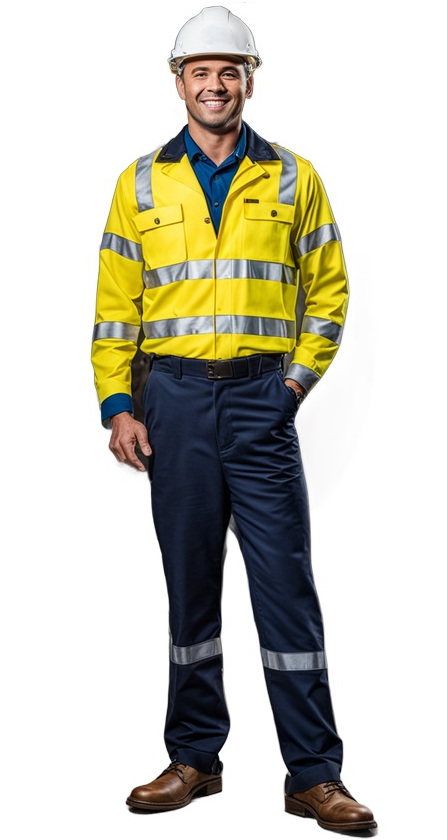
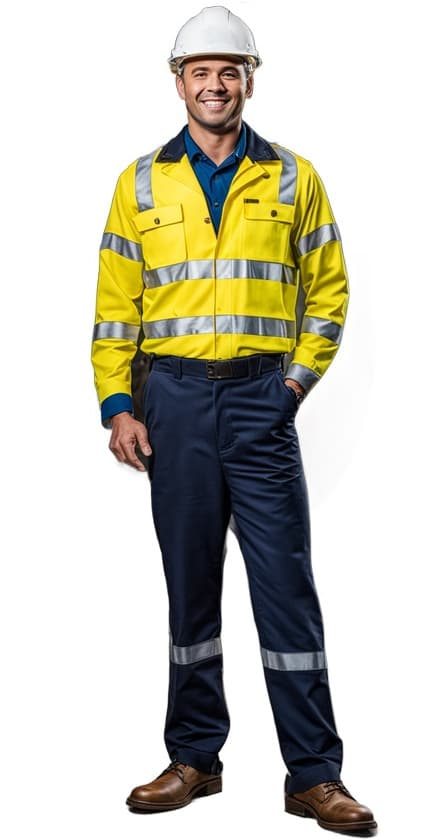
optimizing images

diff --git a/resources/views/services.blade.php b/resources/views/services.blade.php
@@ -5,62 +5,74 @@
     $services = [
         [
             'directory' => asset('images/services/grupo-electrogeno.jpg'),
+            'icon' => '',
             'title' => 'Alquiler y venta de grupos electrogenos',
             'content' => 'Generadores diesel, modernos y ecológicos: son apropiados para aplicaciones de potencia principal, potencia contínua o potencia de emergencia/standby.
 '
         ],
         [
             'directory' => asset('images/services/torre-luminaria.jpg'),
+            'icon' => '',
             'title' => 'Alquiler y venta de torres luminarias.',
             'content' => 'Para brindar una iluminación potente y segura en entornos mineros. Contamos con equipos modernos, obtén la iluminación adecuada para maximizar la eficiencia y la seguridad en tu operación minera.'
         ],
         [
             'directory' => asset ('images/services/camiones.jpg'),
+            'icon' => '',
             'title' => 'Alquiler de camionetas, autos y camiones',
             'content' => 'ofrecemos una amplia flota de vehículos disponibles para alquiler, adaptados a tus requerimientos de transporte en la industria minera.Ya sea que necesites vehículos robustos para terrenos difíciles o autos eficientes para desplazamientos urbanos'
         ],
         [
             'directory' => asset ('images/services/movimientos-de-suelo.jpg'),
+            'icon' => '',
             'title' => 'Servicios de movimientos de suelo y proyectos de ingenieria',
             'content' => 'Nuestro equipo de ingenieros experimentados se encarga de planificar y ejecutar proyectos de movimiento de tierra de manera eficiente y segura. Ya sea que necesites nivelación de terrenos, excavaciones o rellenos, contamos con la maquinaria y el conocimiento necesario'
         ],
         [
             'directory' => asset ('images/services/maquinas-viales.jpg'),
+            'icon' => '',
             'title' => 'Venta de maquinaria vial y repuestos.',
             'content' => 'Ofrecemos una amplia gama de equipos de alta calidad, incluyendo maquinaria pesada, excavadoras, cargadoras, camiones volquete y mucho más.'
         ],
         [
             'directory' => asset ('images/services/imprenta.jpg'),
+            'icon' => '',
             'title' => 'Imprenta y carteleria',
             'content' => 'Contamos con tecnología de vanguardia y un equipo de diseñadores y expertos en impresión que se asegurarán de que tus materiales impresos y carteles cumplan con los más altos estándares de calidad.'
         ],
         [
             'directory' => asset ('images/services/limpieza.jpg'),
+            'icon' => '',
             'title' => 'Insumos de limpieza',
             'content' => 'Insumos de limpieza diseñados específicamente para la industria minera. Entendemos la importancia de mantener un entorno limpio y seguro en tus instalaciones mineras,'
         ],
         [
             'directory' => asset ('images/services/bolsas.jpg'),
+            'icon' => '',
             'title' => 'Bolsas y Big Bag',
             'content' => 'Bolsas ideales para el empaque de productos a granel, como minerales, fertilizantes, arena y otros materiales utilizados en la industria minera. También ofrecemos Big Bags, que son contenedores de gran capacidad diseñados para facilitar la carga, descarga y transporte de materiales voluminosos.'
         ],
         [
             'directory' => asset ('images/services/ferreteria.jpg'),
+            'icon' => '',
             'title' => 'Materiales de ferreteria y construcción',
             'content' => 'herramientas manuales y eléctricas, equipos de seguridad, accesorios de sujeción, productos de soldadura y una ámplia variedad de materiales para la construcción.'
         ],
         [
             'directory' => asset ('images/services/epp.jpg'),
+            'icon' => '',
             'title' => 'Equipamiento y productos de seguridad',
             'content' => 'Nuestro catálogo incluye equipos de protección personal (EPP) como cascos, guantes, gafas de seguridad, calzado de seguridad y ropa de trabajo resistente. Estos productos están diseñados para cumplir con los estándares de seguridad más rigurosos y brindar la máxima protección a los trabajadores en el entorno minero.'
         ],
         [
             'directory' => asset ('images/services/bentonita.jpg'),
+            'icon' => '',
             'title' => 'Venta de Bentonita',
             'content' => 'Un mineral ampliamente utilizado en la industria minera y otras aplicaciones industriales. La bentonita es una arcilla de origen natural con propiedades únicas, como su capacidad de absorción de agua y su plasticidad.'
         ],
         [
             'directory' => asset ('images/services/carpas.jpg'),
+            'icon' => '',
             'title' => 'Alquiler y venta de carpas',
             'content' => 'Ya sea que necesites un espacio adicional para alojamiento, oficinas, comedores, áreas de descanso o cualquier otra aplicación, nuestras carpas son la solución perfecta.'
         ],
@@ -73,7 +85,7 @@
     @component('_components.top-bar')
     @endcomponent
 
-    
+
     @section('banners')
         @component('_components.breadcrumb')
             @slot('title', 'Servicios')
@@ -86,6 +98,7 @@
                     @foreach ($services as $service)
                         @component('_components.services-page')
                             @slot('title', $service['title'] )
+                            @slot('icon', $service['icon'] )
                             @slot('directory', $service['directory'] )
                             @slot('content', $service['content'] )
                         @endcomponent

diff --git a/resources/views/index.blade.php b/resources/views/index.blade.php
@@ -4,6 +4,7 @@
     $services = [
         [
             'directory' => asset('images/projects/project1.jpg'),
+            'icon' => '',
             'title' => 'Ingeniería',
             'content' => 'Ejecución de proyectos de ingeniería y construcción de
             infraestructuras para la industria minera, con un enfoque en el uso eficiente de
@@ -11,18 +12,21 @@
         ],
         [
             'directory' => asset('images/projects/project2.jpg'),
+            'icon' => '',
             'title' => 'Geología',
             'content' => 'Estudio y asesoramiento en la exploración de recursos minerales,
             incluyendo los de factibilidad y evaluación de impacto ambiental.'
         ],
         [
             'directory' => asset ('images/projects/project3.jpg'),
+            'icon' => '',
             'title' => 'Seguridad',
             'content' => 'Asesoramiento en medidas de seguridad y prevención de riesgos en
             proyectos mineros, incluyendo capacitación y seguimiento constante.'
         ],
         [
             'directory' => asset ('images/projects/project4.jpg'),
+            'icon' => '',
             'title' => 'Técnicas y procedimientos',
             'content' => 'Desarrollo e implementación de técnicas y procedimientos innovadores
             para la extracción y procesamiento de minerales, con un enfoque en la sostenibilidad
@@ -30,12 +34,14 @@
         ],
         [
             'directory' => asset ('images/projects/project5.jpg'),
+            'icon' => '',
             'title' => 'Investigación',
             'content' => 'Investigación y desarrollo de nuevas tecnologías y métodos para la
             industria minera, con un enfoque en la eficiencia y sostenibilidad.'
         ],
         [
-            'directory' => asset ('images/projects/project6.jpg'),
+            'directory' => asset ('images/projects/sustentable.jpg'),
+            'icon' => '',
             'title' => 'Medio ambiente',
             'content' => 'Implementación de tecnologías y procesos amigables con el ecosistema
             en la actividad minera. Readaptación del terreno improductivo, para darle un
@@ -84,8 +90,8 @@
     @endcomponent
     {{-- @component('_components.section-ts-service-area2')
     @endcomponent--}}
-
-    <div class="container" style="border-top: 10px solid #005E76; margin-top: 10px; "></div>
+    <!-- Separador -->
+    <div class="container" style="border-top: 10px solid var(--color-oscuro-1); margin-top: 10px; "></div>
     <!-- Servicios -->
     <section id="main-container" class="main-container pb-2">
         <div class="container">
@@ -100,6 +106,7 @@
                 @foreach ($services as $service)
                     @component('_components.services-page')
                         @slot('title', $service['title'] )
+                        @slot('icon', $service['icon'] )
                         @slot('directory', $service['directory'] )
                         @slot('content', $service['content'] )
                     @endcomponent
@@ -107,8 +114,9 @@
             </div>
         </div>
     </section>
+   <!-- Separador -->
+   <div class="container mt-5 mb-5" style="border-top: 10px solid var(--color-oscuro-1); margin-top: 10px; "></div>
    <!-- minerales y publicidad -->
-   <div class="container mt-5 mb-5" style="border-top: 10px solid #005E76; margin-top: 10px; "></div>
     @component('_components.extra-services')
         @section('titles-extra')
             <div class="row text-center">

diff --git a/resources/views/_components/extra-services.blade.php b/resources/views/_components/extra-services.blade.php
@@ -1,26 +1,4 @@
-{{--
-<section id="ts-service-area" class="ts-service-area pb-0">
-    <div class="blue-border">
-        <div class="row">
-            <div class="col-lg-6 col-md-6">
-                <img src="{{ asset ('images/project-2/ads.jpg') }}" alt="Folletos">
-            </div>
-            <div class="column">
-                <p>Texto 1</p>
-            </div>
-        </div>
-        <div class="row">
-            <div class="col-lg-6 col-md-6">
 
-                <p>Venta y exportación de materiales de la actividad extractiva; asegurando
-                    prácticas justas y transparentes en la cadena de suministro.</p>
-            </div>
-            <div class="column">
-                <img src="{{ asset ('images/project-2/minerals.jpg') }}" alt="Minerales">
-            </div>
-        </div>
-    </div>
-</section> --}}
 <div class="container mt-5 mb-5" >
     @yield('titles-extra')
     <div class="row" >
@@ -38,15 +16,15 @@
 
         <div class="col-lg-6 mt-5 mt-lg-0">
             <img class="slider-image" src="{{ asset('images/projects-2/minerals.jpg') }}" alt="Minerals"
-                style="width: 100%; height: 75%">
+                style="width: 100%; height: 75%;border-radius: 20px;">
         </div>
 
 
     </div><!-- row end -->
     <div class="row">
         <div class="col-lg-6 mt-5 mt-lg-0">
-            <img class="slider-image" src="{{ asset('images/projects-2/ads.jpg') }}" alt="Imprenta"
-                style="width: 100%; height: 75%">
+            <img class="slider-image" src="{{ asset('images/projects-2/imprenta.jpg') }}" alt="Imprenta"
+                style="width: 100%; height: 75%;border-radius: 20px;">
         </div>
 
         <div class="col-lg-6">

diff --git a/resources/views/_components/services-page.blade.php b/resources/views/_components/services-page.blade.php
@@ -1,17 +1,20 @@
 
 <div class="col-lg-4 col-md-6 mb-5">
     <div class="ts-service-box">
-        <div class="ts-service-image-wrapper">
-            <img loading="lazy" class="w-100" src="{{ $directory }}" alt="service-image">
+        <div class="ts-service-image-wrapper" style="height:236px !important">
+            <img loading="lazy" src="{{ $directory }}" alt="service-image"
+            style="width:100%;height:100%;object-fit: fill !important;">
         </div>
         <div class="d-flex">
-            <div class="ts-service-box-img">
-            </div>
-            <div class="ts-service-info">
-                <h3 class="service-box-title">{{ $title }}</h3>
-                <p>{{ $content }}</p>                  
+            @if($icon && $icon != null && $icon != "")
+                <div class="ts-service-box-img">
+                    <img loading="lazy" src="{{ $icon }}" alt="service-icon">
+                </div>
+            @endif
+            <div class="@php echo ($icon && $icon != null && $icon != "") ? 'ts-service-info' : '' @endphp">
+                <h3 class="service-box-title" style="color:var(--color-destacado-1);font-weight: 700">{{ $title }}</h3>
+                <p>{{ $content }}</p>
             </div>
         </div>
     </div><!-- Service end -->
 </div>
-        

diff --git a/resources/views/layouts/_partials/_subpartials/header-company-description.blade.php b/resources/views/layouts/_partials/_subpartials/header-company-description.blade.php
@@ -8,7 +8,7 @@
                   <img loading="lazy" src="{{ asset('images/logo-version-2.png') }}" alt="Fs-Mining-Solutions" style="width: 314px !important; height: auto !important;">
                 </a>
             </div><!-- LOGO END -->
-  
+
             <div class="col-lg-9 header-right">
                 <ul class="top-info-box">
                   <li>
@@ -28,7 +28,7 @@
                     </div>
                   </li>
                   <li class="last">
-                    <!--  
+                    <!--
                     <div class="info-box last">
                       <div class="info-box-content">
                           <p class="info-box-title">Global Certificate</p>
@@ -38,12 +38,12 @@
                     -->
                   </li>
                   <li class="header-get-a-quote">
-                    <a class="btn btn-primary" href={{ route('contact') }}>Contacto</a>
+                    <a class="btn btn-outline-info" href={{ route('contact') }}>Contacto</a>
                   </li>
                 </ul><!-- Ul end -->
             </div><!-- header right end -->
           </div><!-- logo area end -->
-  
+
       </div><!-- Row end -->
     </div><!-- Container end -->
   </div>
